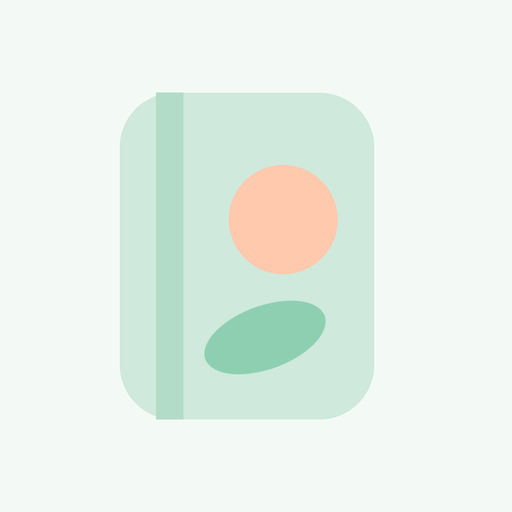
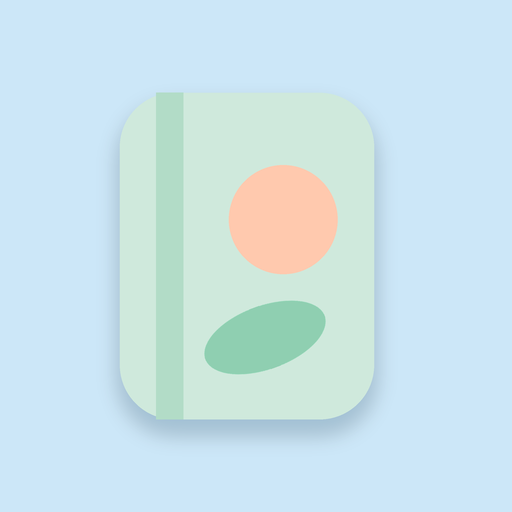
รุ่น 0.2.0: ไอคอนพื้นฟ้า, หัวหน้าหลักสมุดใหญ่ขึ้น + เมฆฟ้า, แก้ข้อความท้ายหน้าถูกแถบล่างบัง, ปุ่มสำรองแบบใหม่, กล่องแนะนำเพิ่มไปหน้าจอโฮม
Claude-Session: https://claude.ai/code/session_01X7kHPiA8SbSXcTAk2KkUNo

diff --git a/js/app.js b/js/app.js
@@ -1,11 +1,11 @@
-// หน้าจอของแอพเกษียณสุข — รุ่น 0.1.0 (ช่วง A ของขั้น Build)
+// หน้าจอของแอพเกษียณสุข — รุ่น 0.2.0 (ช่วง A ของขั้น Build + แก้ตามที่ซันลองบน iPhone 20 พ.ย.)
 // หน้าที่มีในรุ่นนี้: เริ่มใช้, หน้าหลัก (+ กราฟ), เมนูบันทึก, บันทึกยอด/แก้, ยอดสิ้นปี, ประวัติ (ยอดเงิน + ยอดสิ้นปี),
 // ข้อมูลและสำรอง (สำรอง / กู้คืน / ข้อความสำคัญ) — สมุด 3 หน้า (F-13–F-15) และ F-17 ทำในช่วง B
 (function () {
 'use strict';
 const { BOX, compute, fmtMoney, fmtSigned, fmtPct, P, byDate, dayNum } = Calc;
 const { thaiDate, thaiDateShort, todayIso, moneyInput, MONTHS } = Forms;
-const VERSION = '0.1.0';
+const VERSION = '0.2.0';
 const app = document.getElementById('app');
 
 let state = null;          // ข้อมูลทั้งหมดในเครื่อง (null = ยังไม่เคยใช้)
@@ -30,12 +30,38 @@ const signed = (s, txt) => s > 0 ? `<span class="up num">${triUp('#1F7A4D')} ${t
 const LOGO = (w = 42, h = 44, label = true) => `<svg width="${w}" height="${h}" viewBox="0 0 42 44" ${label ? 'role="img" aria-label="โลโก้สมุดเกษียณสุข"' : 'aria-hidden="true"'}>
   <rect x="6" y="4" width="28" height="36" rx="6" fill="#CFE9DC"></rect><rect x="10" y="4" width="3" height="36" fill="#B2DCC7"></rect>
   <circle cx="24" cy="18" r="6" fill="#FFC9AE"></circle><ellipse cx="22" cy="31" rx="7" ry="3.5" fill="#8FCFB1" transform="rotate(-20 22 31)"></ellipse></svg>`;
-const SUN = `<svg width="70" height="56" viewBox="0 0 70 56" aria-hidden="true"><circle cx="44" cy="22" r="17" fill="#FFD9C4"></circle>
-  <ellipse cx="18" cy="40" rx="15" ry="7.5" fill="#BFE8D4" transform="rotate(-24 18 40)"></ellipse><ellipse cx="35" cy="46" rx="12" ry="6" fill="#A6DDC3" transform="rotate(18 35 46)"></ellipse></svg>`;
+// พระอาทิตย์ + เมฆฟ้า 2 ก้อน (แทนใบไม้ — ซันยืนยัน 20 พ.ย. 2569)
+const cloud = (x, y, k, c) => `<g transform="translate(${x} ${y}) scale(${k})" fill="${c}"><circle cx="10" cy="10" r="8"></circle><circle cx="20" cy="7" r="10"></circle><circle cx="30" cy="11" r="7"></circle><rect x="4" y="10" width="30" height="8" rx="4"></rect></g>`;
+const SUN = `<svg class="art" width="78" height="56" viewBox="0 0 78 56" aria-hidden="true"><circle cx="46" cy="22" r="17" fill="#FFD9C4"></circle>${cloud(2, 30, 0.95, '#CFE6F5')}${cloud(42, 36, 0.7, '#BFDDF2')}</svg>`;
 const BACK_ICON = '<svg width="16" height="16" viewBox="0 0 24 24" fill="none" stroke="currentColor" stroke-width="2" stroke-linecap="round" stroke-linejoin="round" aria-hidden="true"><path d="M15 18l-6-6 6-6"></path></svg>';
 
 const IMPORTANT_3 = ['ไม่ใช่คำแนะนำการลงทุน', 'ไม่ใช่บริการทางการของ กบข.', 'ข้อมูลอยู่ในเครื่องคุณเท่านั้น ไม่ส่งออกไปที่ใด'];
 const IMPORTANT_MORE = ['ตัวเลขทั้งหมดคุณกรอกเองจาก My GPF ของ กบข.', 'ผลคำนวณใช้ประกอบการตัดสินใจเท่านั้น'];
+
+
+// ---------- เพิ่มไปหน้าจอโฮม (0.2.0 — ซันอยากให้ผู้ใช้ใช้แบบไอคอน) ----------
+const isStandalone = () => (window.navigator.standalone === true) || (window.matchMedia && matchMedia('(display-mode: standalone)').matches);
+const isIOS = () => /iPhone|iPad|iPod/.test(navigator.userAgent) || (navigator.platform === 'MacIntel' && navigator.maxTouchPoints > 1);
+const INSTALL_KEY = 'kasiansuk.installHidden';
+const installHidden = () => { try { return localStorage.getItem(INSTALL_KEY) === '1'; } catch (e) { return false; } };
+function installCard(dismissible) {
+  if (isStandalone()) return '';
+  if (dismissible && installHidden()) return '';
+  const steps = isIOS()
+    ? `<li>แตะปุ่มแชร์ของ Safari (สี่เหลี่ยมมีลูกศรชี้ขึ้น — ถ้าไม่เห็น แตะ ••• ก่อน)</li><li>เลื่อนหา <b>เพิ่มไปยังหน้าจอโฮม</b> (Add to Home Screen)</li><li>แตะ <b>เพิ่ม</b> แล้วเปิดแอพจากไอคอนเกษียณสุข</li>`
+    : `<li>แตะเมนูของเบราว์เซอร์ (⋮ มุมขวาบน)</li><li>เลือก <b>เพิ่มไปยังหน้าจอหลัก</b> หรือ <b>ติดตั้งแอพ</b></li><li>เปิดแอพจากไอคอนเกษียณสุข</li>`;
+  const hasData = state && (state.records.length || state.yearEnds.length);
+  return `<section class="install" aria-labelledby="install-h">
+    <div class="install-head"><h2 id="install-h">ใช้แบบไอคอนบนหน้าจอโฮม</h2>${dismissible ? '<button type="button" class="icon-btn" id="hide-install" aria-label="ปิดกล่องแนะนำ">✕</button>' : ''}</div>
+    <p>เปิดง่ายเหมือนแอพ และเสี่ยงข้อมูลหายน้อยกว่าเปิดในเบราว์เซอร์ (Safari อาจลบข้อมูลของเว็บที่ไม่ได้เปิดนานเกิน 7 วัน)</p>
+    <ol>${steps}</ol>
+    ${hasData ? '<p><b>ข้อมูลที่จดในเบราว์เซอร์จะไม่ตามไปที่ไอคอน</b> — สำรองข้อมูลก่อน แล้วกู้คืนในแอพที่เปิดจากไอคอน <a href="#/data">ไปสำรอง</a></p>' : ''}
+  </section>`;
+}
+function bindInstall() {
+  const b = app.querySelector('#hide-install');
+  if (b) b.addEventListener('click', () => { try { localStorage.setItem(INSTALL_KEY, '1'); } catch (e) {} const c = app.querySelector('.install'); if (c) c.remove(); });
+}
 
 // ---------- เก็บข้อมูล ----------
 function persist(next, okMsg) {
@@ -144,8 +170,9 @@ function view(html, tab) {
 // =====================================================================
 function renderStart(errors = {}) {
   const dr = draft || {};
-  view(`<header class="app-head"><div class="brand">${LOGO()}<div><span class="brand-name">เกษียณสุข</span><span class="brand-sub">สมุดบันทึกเงิน กบข. ของคุณ</span></div></div>${SUN}</header>
+  view(`<header class="app-head"><div class="brand">${LOGO(50, 52)}<div><span class="brand-name">เกษียณสุข</span><span class="brand-sub">สมุดบันทึกเงิน กบข. ของคุณ</span></div></div>${SUN}</header>
   <main>
+    ${installCard(false)}
     <section class="card">
       <h1 class="card-title" style="font-size:22px">ยินดีต้อนรับ</h1>
       <p style="margin:0">บอกกำไรปีนี้ของ กบข. แยกจากเงินที่ส่งเข้าไป</p>
@@ -166,7 +193,7 @@ function renderStart(errors = {}) {
     </section>
     <p class="small" style="text-align:center;margin:0">มีไฟล์สำรองอยู่แล้ว? <a href="#/data">กู้คืนจากไฟล์สำรอง</a></p>
   </main>`, null);
-  bindHelp();
+  bindHelp(); bindInstall();
   app.querySelector('#start-form').addEventListener('submit', e => {
     e.preventDefault();
     draft = readForm(e.target);
@@ -241,8 +268,9 @@ function renderHome() {
       ${r.principalSince ? `<span class="xsmall muted">เงินต้นอัปเดตล่าสุด ${thaiDate(r.principalSince)}</span>` : ''}`;
   }
 
-  view(`<header class="app-head"><div class="brand">${LOGO()}<div><span class="brand-name">เกษียณสุข</span><span class="brand-sub">สมุดบันทึกเงิน กบข. ของคุณ</span></div></div>${SUN}</header>
+  view(`<header class="app-head"><div class="brand">${LOGO(50, 52)}<div><span class="brand-name">เกษียณสุข</span><span class="brand-sub">สมุดบันทึกเงิน กบข. ของคุณ</span></div></div>${SUN}</header>
   <main>
+    ${installCard(true)}
     ${backupBannerNeeded() ? `<div class="banner" role="note"><p>สำรองข้อมูลไว้กันหาย <a href="#/data">ไปสำรอง</a></p><button type="button" class="icon-btn" id="hide-banner" aria-label="ปิดแถบชวนสำรอง">✕</button></div>` : ''}
     <section class="card" style="gap:4px">
       <span class="card-kicker">วันนี้ในสมุด</span>
@@ -259,7 +287,7 @@ function renderHome() {
     ${chartCard(r, Y)}
     <p class="footer-note">ไม่ใช่คำแนะนำการลงทุน · ไม่ใช่บริการทางการของ กบข.</p>
   </main>`, 'home');
-  bindHelp();
+  bindHelp(); bindInstall();
   const hb = app.querySelector('#hide-banner');
   if (hb) hb.addEventListener('click', () => {
     const next = clone(state); next.meta.bannerDismissedAt = nowStamp(); next.meta.bannerDismissedChanges = next.meta.changesSinceBackup || 0;
@@ -517,7 +545,6 @@ function markBackedUp() {
 function renderData() {
   const has = !!state;
   const m = has ? state.meta : null;
-  const canShare = has && navigator.canShare && (() => { try { return navigator.canShare({ files: [new File(['{}'], 'x.json', { type: 'application/json' })] }); } catch (e) { return false; } })();
   view(`${pageHead('ข้อมูลและสำรอง', has ? null : '#/start', 'เริ่มใช้')}
   <main>
     ${loadError ? `<div class="alert" role="alert">อ่านข้อมูลเดิมในเครื่องไม่ได้: ${esc(loadError)} — แอพจะไม่เขียนทับข้อมูลเดิมเอง ถ้ามีไฟล์สำรอง กู้คืนได้ด้านล่าง</div>` : ''}
@@ -525,8 +552,7 @@ function renderData() {
       <h2 class="card-title">สำรองข้อมูล</h2>
       <p class="small muted" style="margin:0">${m.lastBackupAt ? `สำรองล่าสุด ${thaiDate(m.lastBackupAt.slice(0, 10))}` : 'ยังไม่เคยสำรอง'}</p>
       <p class="small" style="margin:0">ไฟล์เดียวครบทุกปี เก็บไว้ในที่ที่ไม่หายเมื่อเปลี่ยนเครื่อง เช่น iCloud Drive, Google Drive หรือส่งเข้า LINE ของตัวเอง</p>
-      <button type="button" class="btn btn-primary" id="do-backup">บันทึกไฟล์สำรอง</button>
-      ${canShare ? '<button type="button" class="btn btn-soft" id="do-share">ส่งไฟล์สำรองไปแอพอื่น</button>' : ''}
+      <button type="button" class="btn btn-primary" id="do-backup">สำรองข้อมูล</button>
     </section>` : ''}
     <section class="card">
       <h2 class="card-title">กู้คืนจากไฟล์สำรอง</h2>
@@ -535,6 +561,7 @@ function renderData() {
       <label class="btn btn-soft" for="restore-file">เลือกไฟล์สำรอง</label>
       <input type="file" id="restore-file" accept=".json,application/json" class="sr-only">
     </section>
+    ${installCard(false)}
     <section class="card">
       <h2 class="card-title">ข้อความสำคัญ</h2>
       <ul style="margin:0;padding-left:20px">${IMPORTANT_3.concat(IMPORTANT_MORE).map(t => `<li>${t}</li>`).join('')}</ul>
@@ -542,18 +569,7 @@ function renderData() {
     <p class="footer-note">เกษียณสุข รุ่น ${VERSION} (รุ่นทดสอบ) · ตัวอักษร Mitr และ IBM Plex Sans Thai Looped ใช้ตามสัญญาอนุญาต <a href="fonts/OFL-Mitr.txt">OFL</a></p>
   </main>`, has ? 'data' : null);
   const bk = app.querySelector('#do-backup');
-  if (bk) bk.addEventListener('click', () => {
-    const blob = new Blob([Store.makeBackup(state, nowStamp())], { type: 'application/json' });
-    const a = document.createElement('a'); a.href = URL.createObjectURL(blob); a.download = backupFileName();
-    document.body.appendChild(a); a.click(); a.remove(); setTimeout(() => URL.revokeObjectURL(a.href), 4000);
-    toast('สร้างไฟล์สำรองแล้ว เก็บไฟล์ไว้ให้ดี'); markBackedUp();
-  });
-  const sh = app.querySelector('#do-share');
-  if (sh) sh.addEventListener('click', async () => {
-    const file = new File([Store.makeBackup(state, nowStamp())], backupFileName(), { type: 'application/json' });
-    try { await navigator.share({ files: [file], title: 'ไฟล์สำรองเกษียณสุข' }); toast('ส่งไฟล์สำรองแล้ว'); markBackedUp(); }
-    catch (e) { if (e && e.name !== 'AbortError') toast('ส่งไฟล์ไม่สำเร็จ ลองปุ่ม "บันทึกไฟล์สำรอง" แทน'); }
-  });
+  if (bk) bk.addEventListener('click', backupFlow);
   app.querySelector('#restore-file').addEventListener('change', e => {
     const file = e.target.files && e.target.files[0]; if (!file) return;
     const rd = new FileReader();
@@ -566,6 +582,45 @@ function renderData() {
     rd.readAsText(file);
   });
 }
+
+// สำรองข้อมูล (0.2.0): กล่องข้อความของแอพบอกขั้นตอนก่อน → เปิดเมนูแชร์ของเครื่อง (มี "บันทึกไปยังไฟล์" ในหน้าแรก)
+// เครื่องที่เปิดเมนูแชร์พร้อมไฟล์ไม่ได้ → ดาวน์โหลดไฟล์แบบเดิม พร้อมบอกวิธีบน iPhone
+function backupFile() { return new File([Store.makeBackup(state, nowStamp())], backupFileName(), { type: 'application/json' }); }
+function canShareFile() {
+  try { return !!(navigator.share && navigator.canShare && navigator.canShare({ files: [new File(['{}'], 'x.json', { type: 'application/json' })] })); } catch (e) { return false; }
+}
+function backupFlow() {
+  const share = canShareFile();
+  const steps = share
+    ? (isIOS()
+        ? '<li>หน้าถัดไปแตะ <b>บันทึกไปยังไฟล์</b> (Save to Files)</li><li>เลือกที่เก็บ เช่น <b>iCloud Drive</b> แล้วแตะ <b>บันทึก</b></li>'
+        : '<li>หน้าถัดไปเลือกที่เก็บไฟล์ เช่น Google Drive หรือส่งเข้า LINE ของตัวเอง</li><li>ยืนยันการบันทึก</li>')
+    : (isIOS()
+        ? '<li>ถ้าเห็นหน้ารูปไฟล์พื้นดำ แตะ <b>More…</b> (หรือปุ่มแชร์)</li><li>แตะ <b>บันทึกไปยังไฟล์</b> (Save to Files) แล้วเลือกที่เก็บ</li>'
+        : '<li>ไฟล์จะถูกบันทึกไว้ในโฟลเดอร์ดาวน์โหลด</li><li>ย้ายไฟล์ไปเก็บในที่ที่ไม่หายเมื่อเปลี่ยนเครื่อง</li>');
+  openSheet(`<h2>สำรองข้อมูล</h2>
+    <p style="margin:0">แอพจะสร้างไฟล์สำรองไฟล์เดียว ครบทุกปี ชื่อ <span class="num">${esc(backupFileName())}</span></p>
+    <div class="steps-box"><ol>${steps}</ol></div>
+    <p class="small muted" style="margin:0">เก็บไว้ในที่ที่ไม่หายเมื่อเปลี่ยนเครื่อง · ไฟล์นี้มีตัวเลขพอร์ตของคุณ อย่าส่งให้คนอื่น</p>
+    <div class="btn-row"><button type="button" class="btn btn-primary" id="bk-go">ไปต่อ</button><button type="button" class="btn btn-soft" data-close>ยกเลิก</button></div>`, sh => {
+    sh.querySelector('#bk-go').addEventListener('click', async () => {
+      if (share) {
+        try { await navigator.share({ files: [backupFile()] }); closeSheet(); toast('สำรองแล้ว'); markBackedUp(); }
+        catch (e) {
+          if (e && e.name === 'AbortError') return;          // ผู้ใช้ปิดเมนูแชร์เอง — ยังไม่ถือว่าสำรอง
+          closeSheet(); downloadBackup();
+        }
+      } else { closeSheet(); downloadBackup(); }
+    });
+  });
+}
+function downloadBackup() {
+  const blob = new Blob([Store.makeBackup(state, nowStamp())], { type: 'application/json' });
+  const a = document.createElement('a'); a.href = URL.createObjectURL(blob); a.download = backupFileName();
+  document.body.appendChild(a); a.click(); a.remove(); setTimeout(() => URL.revokeObjectURL(a.href), 4000);
+  toast('สร้างไฟล์สำรองแล้ว เก็บไฟล์ไว้ให้ดี'); markBackedUp();
+}
+
 function renderRestore() {
   if (!pendingRestore) return go('#/data');
   const s = pendingRestore.summary;

diff --git a/css/app.css b/css/app.css
@@ -36,6 +36,8 @@
   --peach-tag: #9A4A2B;
   --principal-line: #E39A78;   /* กราฟ: เส้นเงินต้น */
   --benefit-fill: #FFE9DD;     /* กราฟ: ช่องผลประโยชน์ */
+  --sky: #CFE6F5;  --sky-2: #BFDDF2;  /* เมฆฟ้า (เพิ่ม 0.2.0) */
+  --icon-bg: #CCE7F8;   /* พื้นไอคอนแอพ */
   --pink-bg: #FBE3E6;  --pink-text: #7A3A45;   /* ป้าย "จดไว้" */
   --up: #1F7A4D;       --up-bg: #E3F4EA;       /* ขึ้น */
   --down: #B2413A;     --down-bg: #FDF1EF;  --down-border: #F3D3CE;  --down-label: #8A3B33;  /* ลง */
@@ -59,10 +61,12 @@ button { font: inherit; color: inherit; }
 
 #app { max-width: 520px; margin: 0 auto; min-height: 100vh; display: flex; flex-direction: column; }
 main { flex: 1; padding: 8px 16px 24px; display: flex; flex-direction: column; gap: 16px; }
-.has-nav main { padding-bottom: 96px; }
+/* เผื่อที่ใต้หน้าให้พ้นแถบล่าง — iPhone มีพื้นที่ขีดปัดกลับหน้าโฮมเพิ่ม (แก้ 0.2.0) */
+.has-nav main { padding-bottom: calc(112px + env(safe-area-inset-bottom)); }
 
 /* ---------- หัวหน้า ---------- */
-.app-head { padding: 26px 20px 8px; display: flex; justify-content: space-between; align-items: center; }
+.app-head { padding: 26px 20px 8px; display: flex; justify-content: space-between; align-items: center; gap: 20px; }
+.app-head .art { flex: none; }
 .brand { display: flex; align-items: center; gap: 10px; }
 .brand-name { font-family: var(--font-head); font-size: 22px; font-weight: 500; display: block; }
 .brand-sub { font-size: 13px; color: var(--text-2); display: block; }
@@ -184,3 +188,12 @@ input[aria-invalid="true"], select[aria-invalid="true"] { border-color: var(--er
 .kv { display: grid; grid-template-columns: 1fr auto; gap: 6px 12px; font-size: 14px; margin: 0; }
 .kv dt { color: var(--text-2); }
 .kv dd { margin: 0; text-align: right; }
+
+/* กล่องแนะนำเพิ่มไปหน้าจอโฮม (0.2.0) */
+.install { background: var(--card); border-radius: 20px; padding: 16px; box-shadow: var(--shadow); display: flex; flex-direction: column; gap: 8px; border: 1.5px solid var(--sky-2); }
+.install-head { display: flex; align-items: center; gap: 10px; justify-content: space-between; }
+.install h2 { margin: 0; font-family: var(--font-head); font-size: 16px; font-weight: 500; }
+.install ol { margin: 0; padding-left: 22px; font-size: 14px; display: flex; flex-direction: column; gap: 4px; }
+.install p { margin: 0; font-size: 13px; color: var(--text-2); }
+.steps-box { background: var(--mint); border-radius: 14px; padding: 12px 14px; }
+.steps-box ol { margin: 0; padding-left: 22px; display: flex; flex-direction: column; gap: 6px; }

diff --git a/index.html b/index.html
@@ -15,14 +15,14 @@
 <link rel="icon" href="icons/icon.svg" type="image/svg+xml">
 <link rel="apple-touch-icon" href="icons/apple-touch-icon.png">
 <link rel="preload" href="fonts/ibm-plex-sans-thai-looped-thai-400-normal.woff2" as="font" type="font/woff2" crossorigin>
-<link rel="stylesheet" href="css/app.css?v=0.1.0">
+<link rel="stylesheet" href="css/app.css?v=0.2.0">
 </head>
 <body>
 <div id="app" aria-live="polite"><p style="padding:24px">กำลังเปิดสมุด…</p></div>
 <noscript><p style="padding:24px">แอพนี้ต้องเปิด JavaScript ในเบราว์เซอร์</p></noscript>
-<script src="js/calc.js?v=0.1.0"></script>
-<script src="js/store.js?v=0.1.0"></script>
-<script src="js/forms.js?v=0.1.0"></script>
-<script src="js/app.js?v=0.1.0"></script>
+<script src="js/calc.js?v=0.2.0"></script>
+<script src="js/store.js?v=0.2.0"></script>
+<script src="js/forms.js?v=0.2.0"></script>
+<script src="js/app.js?v=0.2.0"></script>
 </body>
 </html>

diff --git a/README.md b/README.md
@@ -6,7 +6,7 @@
 - ข้อมูลอยู่ในเบราว์เซอร์ของเครื่องผู้ใช้เท่านั้น ไม่มีบัญชี ไม่ส่งข้อมูลออกไปที่ใด
 - ตัวเลขทั้งหมดในโค้ด ชุดทดสอบ และไฟล์ทดสอบ เป็นตัวเลขสมมติ
 
-สถานะ: รุ่น 0.1.0 — รุ่นทดสอบ (ช่วง A ของขั้น Build)
+สถานะ: รุ่น 0.2.0 — รุ่นทดสอบ (ช่วง A ของขั้น Build + แก้ตามที่ลองบน iPhone)
 
 ## ไฟล์ในนี้ (อธิบายแบบง่าย)
 
